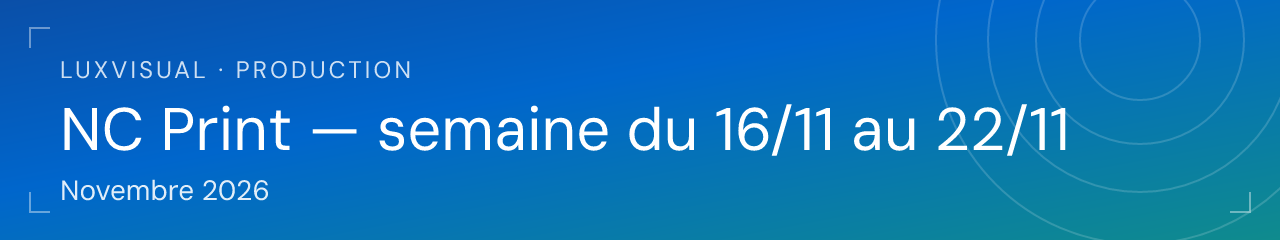
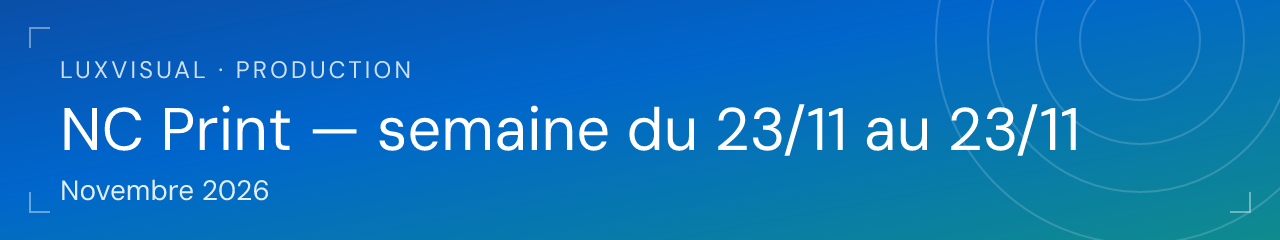
Rapport à la demande NC Print [skip ci]

Changed region(s): [[0.5625, 0.4375, 0.8438, 0.6417]]

diff --git a/report/rapport.html b/report/rapport.html
@@ -1,1 +1,1 @@
-<!DOCTYPE html><html lang="fr"><head><meta charset="utf-8"><meta name="viewport" content="width=device-width,initial-scale=1"></head><body style="margin:0;background:#f6f7f9;font-family:Arial,Helvetica,sans-serif"><table role="presentation" width="100%" cellpadding="0" cellspacing="0" bgcolor="#f6f7f9"><tr><td align="center" style="padding:16px 8px"><table role="presentation" width="640" cellpadding="0" cellspacing="0" bgcolor="#ffffff" style="max-width:640px;width:100%;border:1px solid #e3e6eb"><tr><td bgcolor="#0066cc" style="background:#0066cc;font-size:0;line-height:0"><img src="https://raw.githubusercontent.com/jeansonpaul-ops/NC-PRINT/main/report/banner.png?v=1795377986214" width="640" alt="NC Print — semaine du 16/11 au 22/11" style="display:block;width:100%;height:auto;border:0"></td></tr><tr><td style="padding:24px"><table role="presentation" cellpadding="0" cellspacing="0"><tr><td style="padding:0 28px 0 0"><div style="font-size:30px;font-weight:bold;color:#0066cc">23</div><div style="font-size:12px;color:#5f6877">NC cette semaine</div></td><td style="padding:0 28px 0 0"><div style="font-size:30px;font-weight:bold;color:#0f8b8d">7 h 12</div><div style="font-size:12px;color:#5f6877">temps perdu</div></td><td style="padding:0 28px 0 0"><div style="font-size:30px;font-weight:bold;color:#1e9e6a">19 min</div><div style="font-size:12px;color:#5f6877">par NC</div></td></tr></table><p style="font-size:16px;font-weight:bold;color:#14181f;margin:28px 0 8px">Non-conformités de la semaine</p><table width="100%" cellpadding="0" cellspacing="0" style="border-collapse:collapse;border:1px solid #e3e6eb"><tr><th style="padding:8px;text-align:left;font-size:12px;color:#5f6877;background:#f1f3f6;border-bottom:1px solid #e3e6eb">Date</th><th style="padding:8px;text-align:left;font-size:12px;color:#5f6877;background:#f1f3f6;border-bottom:1px solid #e3e6eb">Client / job</th><th style="padding:8px;text-align:left;font-size:12px;color:#5f6877;background:#f1f3f6;border-bottom:1px solid #e3e6eb">Graphiste</th><th style="padding:8px;text-align:left;font-size:12px;color:#5f6877;background:#f1f3f6;border-bottom:1px solid #e3e6eb">Type(s)</th><th style="padding:8px;text-align:left;font-size:12px;color:#5f6877;background:#f1f3f6;border-bottom:1px solid #e3e6eb;text-align:right">Temps</th></tr><tr><td style="padding:6px 8px;font-size:12px;color:#14181f;border-bottom:1px solid #e3e6eb;vertical-align:top;white-space:nowrap">17/11</td><td style="padding:6px 8px;font-size:12px;color:#14181f;border-bottom:1px solid #e3e6eb;vertical-align:top">surtout event &amp; co<br><span style="color:#5f6877;font-size:12px">2625041</span></td><td style="padding:6px 8px;font-size:12px;color:#14181f;border-bottom:1px solid #e3e6eb;vertical-align:top">Christopher</td><td style="padding:6px 8px;font-size:12px;color:#14181f;border-bottom:1px solid #e3e6eb;vertical-align:top">Fond perdu insuffisant</td><td style="padding:6px 8px;font-size:12px;color:#14181f;border-bottom:1px solid #e3e6eb;vertical-align:top;white-space:nowrap;text-align:right"><b>15</b> min</td></tr><tr><td style="padding:6px 8px;font-size:12px;color:#14181f;border-bottom:1px solid #e3e6eb;vertical-align:top;white-space:nowrap">17/11</td><td style="padding:6px 8px;font-size:12px;color:#14181f;border-bottom:1px solid #e3e6eb;vertical-align:top">LuxExpo<br><span style="color:#5f6877;font-size:12px">2624882</span></td><td style="padding:6px 8px;font-size:12px;color:#14181f;border-bottom:1px solid #e3e6eb;vertical-align:top">Invité (Graphiste)</td><td style="padding:6px 8px;font-size:12px;color:#14181f;border-bottom:1px solid #e3e6eb;vertical-align:top">Dimensions incorrectes</td><td style="padding:6px 8px;font-size:12px;color:#14181f;border-bottom:1px solid #e3e6eb;vertical-align:top;white-space:nowrap;text-align:right"><b>60</b> min</td></tr><tr><td style="padding:6px 8px;font-size:12px;color:#14181f;border-bottom:1px solid #e3e6eb;vertical-align:top;white-space:nowrap">17/11</td><td style="padding:6px 8px;font-size:12px;color:#14181f;border-bottom:1px solid #e3e6eb;vertical-align:top">ACL AUTOMOBILE<br><span style="color:#5f6877;font-size:12px">2625001</span></td><td style="padding:6px 8px;font-size:12px;color:#14181f;border-bottom:1px solid #e3e6eb;vertical-align:top">Invité (Graphiste)</td><td style="padding:6px 8px;font-size:12px;color:#14181f;border-bottom:1px solid #e3e6eb;vertical-align:top">Dimensions incorrectes</td><td style="padding:6px 8px;font-size:12px;color:#14181f;border-bottom:1px solid #e3e6eb;vertical-align:top;white-space:nowrap;text-align:right"><b>5</b> min</td></tr><tr><td style="padding:6px 8px;font-size:12px;color:#14181f;border-bottom:1px solid #e3e6eb;vertical-align:top;white-space:nowrap">17/11</td><td style="padding:6px 8px;font-size:12px;color:#14181f;border-bottom:1px solid #e3e6eb;vertical-align:top">GO CONCEPT<br><span style="color:#5f6877;font-size:12px">2624955</span></td><td style="padding:6px 8px;font-size:12px;color:#14181f;border-bottom:1px solid #e3e6eb;vertical-align:top">Manon</td><td style="padding:6px 8px;font-size:12px;color:#14181f;border-bottom:1px solid #e3e6eb;vertical-align:top">Autre</td><td style="padding:6px 8px;font-size:12px;color:#14181f;border-bottom:1px solid #e3e6eb;vertical-align:top;white-space:nowrap;text-align:right"><b>15</b> min</td></tr><tr><td style="padding:6px 8px;font-size:12px;color:#14181f;border-bottom:1px solid #e3e6eb;vertical-align:top;white-space:nowrap">17/11</td><td style="padding:6px 8px;font-size:12px;color:#14181f;border-bottom:1px solid #e3e6eb;vertical-align:top">GARAGE LOSCH<br><span style="color:#5f6877;font-size:12px">2624615</span></td><td style="padding:6px 8px;font-size:12px;color:#14181f;border-bottom:1px solid #e3e6eb;vertical-align:top">Manon</td><td style="padding:6px 8px;font-size:12px;color:#14181f;border-bottom:1px solid #e3e6eb;vertical-align:top">Dimensions incorrectes</td><td style="padding:6px 8px;font-size:12px;color:#14181f;border-bottom:1px solid #e3e6eb;vertical-align:top;white-space:nowrap;text-align:right"><b>15</b> min</td></tr><tr><td style="padding:6px 8px;font-size:12px;color:#14181f;border-bottom:1px solid #e3e6eb;vertical-align:top;white-space:nowrap">17/11</td><td style="padding:6px 8px;font-size:12px;color:#14181f;border-bottom:1px solid #e3e6eb;vertical-align:top">SOCIETE DE L'AEROPORT<br><span style="color:#5f6877;font-size:12px">2624934</span></td><td style="padding:6px 8px;font-size:12px;color:#14181f;border-bottom:1px solid #e3e6eb;vertical-align:top">Invité (Graphiste)</td><td style="padding:6px 8px;font-size:12px;color:#14181f;border-bottom:1px solid #e3e6eb;vertical-align:top">Autre: Incohérence BAT</td><td style="padding:6px 8px;font-size:12px;color:#14181f;border-bottom:1px solid #e3e6eb;vertical-align:top;white-space:nowrap;text-align:right"><b>15</b> min</td></tr><tr><td style="padding:6px 8px;font-size:12px;color:#14181f;border-bottom:1px solid #e3e6eb;vertical-align:top;white-space:nowrap">17/11</td><td style="padding:6px 8px;font-size:12px;color:#14181f;border-bottom:1px solid #e3e6eb;vertical-align:top">DUSSMAN<br><span style="color:#5f6877;font-size:12px">2624971</span></td><td style="padding:6px 8px;font-size:12px;color:#14181f;border-bottom:1px solid #e3e6eb;vertical-align:top">Invité (Graphiste)</td><td style="padding:6px 8px;font-size:12px;color:#14181f;border-bottom:1px solid #e3e6eb;vertical-align:top">Autre: Manque coin arrondi</td><td style="padding:6px 8px;font-size:12px;color:#14181f;border-bottom:1px solid #e3e6eb;vertical-align:top;white-space:nowrap;text-align:right"><b>15</b> min</td></tr><tr><td style="padding:6px 8px;font-size:12px;color:#14181f;border-bottom:1px solid #e3e6eb;vertical-align:top;white-space:nowrap">18/11</td><td style="padding:6px 8px;font-size:12px;color:#14181f;border-bottom:1px solid #e3e6eb;vertical-align:top">ACCENT AIGU<br><span style="color:#5f6877;font-size:12px">2624708</span></td><td style="padding:6px 8px;font-size:12px;color:#14181f;border-bottom:1px solid #e3e6eb;vertical-align:top">Manon</td><td style="padding:6px 8px;font-size:12px;color:#14181f;border-bottom:1px solid #e3e6eb;vertical-align:top">Autre: Manque visuel</td><td style="padding:6px 8px;font-size:12px;color:#14181f;border-bottom:1px solid #e3e6eb;vertical-align:top;white-space:nowrap;text-align:right"><b>120</b> min</td></tr><tr><td style="padding:6px 8px;font-size:12px;color:#14181f;border-bottom:1px solid #e3e6eb;vertical-align:top;white-space:nowrap">19/11</td><td style="padding:6px 8px;font-size:12px;color:#14181f;border-bottom:1px solid #e3e6eb;vertical-align:top">ANARODO<br><span style="color:#5f6877;font-size:12px">2624568</span></td><td style="padding:6px 8px;font-size:12px;color:#14181f;border-bottom:1px solid #e3e6eb;vertical-align:top">Manon</td><td style="padding:6px 8px;font-size:12px;color:#14181f;border-bottom:1px solid #e3e6eb;vertical-align:top">Autre: Visuel pas centré + Contour de découpe absent / non standard</td><td style="padding:6px 8px;font-size:12px;color:#14181f;border-bottom:1px solid #e3e6eb;vertical-align:top;white-space:nowrap;text-align:right"><b>20</b> min</td></tr><tr><td style="padding:6px 8px;font-size:12px;color:#14181f;border-bottom:1px solid #e3e6eb;vertical-align:top;white-space:nowrap">19/11</td><td style="padding:6px 8px;font-size:12px;color:#14181f;border-bottom:1px solid #e3e6eb;vertical-align:top">LUXEXPO<br><span style="color:#5f6877;font-size:12px">2624928</span></td><td style="padding:6px 8px;font-size:12px;color:#14181f;border-bottom:1px solid #e3e6eb;vertical-align:top">Invité (Graphiste)</td><td style="padding:6px 8px;font-size:12px;color:#14181f;border-bottom:1px solid #e3e6eb;vertical-align:top">Traits de coupe absents / mal positionnés</td><td style="padding:6px 8px;font-size:12px;color:#14181f;border-bottom:1px solid #e3e6eb;vertical-align:top;white-space:nowrap;text-align:right"><b>20</b> min</td></tr><tr><td style="padding:6px 8px;font-size:12px;color:#14181f;border-bottom:1px solid #e3e6eb;vertical-align:top;white-space:nowrap">19/11</td><td style="padding:6px 8px;font-size:12px;color:#14181f;border-bottom:1px solid #e3e6eb;vertical-align:top">LUX EXPO<br><span style="color:#5f6877;font-size:12px">2625016</span></td><td style="padding:6px 8px;font-size:12px;color:#14181f;border-bottom:1px solid #e3e6eb;vertical-align:top">Invité (Graphiste)</td><td style="padding:6px 8px;font-size:12px;color:#14181f;border-bottom:1px solid #e3e6eb;vertical-align:top">Fond perdu insuffisant</td><td style="padding:6px 8px;font-size:12px;color:#14181f;border-bottom:1px solid #e3e6eb;vertical-align:top;white-space:nowrap;text-align:right"><b>15</b> min</td></tr><tr><td style="padding:6px 8px;font-size:12px;color:#14181f;border-bottom:1px solid #e3e6eb;vertical-align:top;white-space:nowrap">19/11</td><td style="padding:6px 8px;font-size:12px;color:#14181f;border-bottom:1px solid #e3e6eb;vertical-align:top">APEX<br><span style="color:#5f6877;font-size:12px">2624735</span></td><td style="padding:6px 8px;font-size:12px;color:#14181f;border-bottom:1px solid #e3e6eb;vertical-align:top">Invité (Graphiste)</td><td style="padding:6px 8px;font-size:12px;color:#14181f;border-bottom:1px solid #e3e6eb;vertical-align:top">Fond perdu insuffisant</td><td style="padding:6px 8px;font-size:12px;color:#14181f;border-bottom:1px solid #e3e6eb;vertical-align:top;white-space:nowrap;text-align:right"><b>15</b> min</td></tr><tr><td style="padding:6px 8px;font-size:12px;color:#14181f;border-bottom:1px solid #e3e6eb;vertical-align:top;white-space:nowrap">19/11</td><td style="padding:6px 8px;font-size:12px;color:#14181f;border-bottom:1px solid #e3e6eb;vertical-align:top">MATE<br><span style="color:#5f6877;font-size:12px">2624889</span></td><td style="padding:6px 8px;font-size:12px;color:#14181f;border-bottom:1px solid #e3e6eb;vertical-align:top">Invité (Graphiste)</td><td style="padding:6px 8px;font-size:12px;color:#14181f;border-bottom:1px solid #e3e6eb;vertical-align:top">Mauvais format (JPG/PDF)</td><td style="padding:6px 8px;font-size:12px;color:#14181f;border-bottom:1px solid #e3e6eb;vertical-align:top;white-space:nowrap;text-align:right"><b>15</b> min</td></tr><tr><td style="padding:6px 8px;font-size:12px;color:#14181f;border-bottom:1px solid #e3e6eb;vertical-align:top;white-space:nowrap">19/11</td><td style="padding:6px 8px;font-size:12px;color:#14181f;border-bottom:1px solid #e3e6eb;vertical-align:top">ART AND WISE<br><span style="color:#5f6877;font-size:12px">2624620</span></td><td style="padding:6px 8px;font-size:12px;color:#14181f;border-bottom:1px solid #e3e6eb;vertical-align:top">Félix</td><td style="padding:6px 8px;font-size:12px;color:#14181f;border-bottom:1px solid #e3e6eb;vertical-align:top">Traits de coupe absents / mal positionnés</td><td style="padding:6px 8px;font-size:12px;color:#14181f;border-bottom:1px solid #e3e6eb;vertical-align:top;white-space:nowrap;text-align:right"><b>15</b> min</td></tr><tr><td style="padding:6px 8px;font-size:12px;color:#14181f;border-bottom:1px solid #e3e6eb;vertical-align:top;white-space:nowrap">19/11</td><td style="padding:6px 8px;font-size:12px;color:#14181f;border-bottom:1px solid #e3e6eb;vertical-align:top">ZPB<br><span style="color:#5f6877;font-size:12px">2625014</span></td><td style="padding:6px 8px;font-size:12px;color:#14181f;border-bottom:1px solid #e3e6eb;vertical-align:top">Invité (Graphiste)</td><td style="padding:6px 8px;font-size:12px;color:#14181f;border-bottom:1px solid #e3e6eb;vertical-align:top">Fond perdu insuffisant</td><td style="padding:6px 8px;font-size:12px;color:#14181f;border-bottom:1px solid #e3e6eb;vertical-align:top;white-space:nowrap;text-align:right"><b>2</b> min</td></tr><tr><td style="padding:6px 8px;font-size:12px;color:#14181f;border-bottom:1px solid #e3e6eb;vertical-align:top;white-space:nowrap">19/11</td><td style="padding:6px 8px;font-size:12px;color:#14181f;border-bottom:1px solid #e3e6eb;vertical-align:top">UP FOUNDATION<br><span style="color:#5f6877;font-size:12px">2625039</span></td><td style="padding:6px 8px;font-size:12px;color:#14181f;border-bottom:1px solid #e3e6eb;vertical-align:top">Invité (Graphiste)</td><td style="padding:6px 8px;font-size:12px;color:#14181f;border-bottom:1px solid #e3e6eb;vertical-align:top">Fond perdu insuffisant</td><td style="padding:6px 8px;font-size:12px;color:#14181f;border-bottom:1px solid #e3e6eb;vertical-align:top;white-space:nowrap;text-align:right"><b>5</b> min</td></tr><tr><td style="padding:6px 8px;font-size:12px;color:#14181f;border-bottom:1px solid #e3e6eb;vertical-align:top;white-space:nowrap">19/11</td><td style="padding:6px 8px;font-size:12px;color:#14181f;border-bottom:1px solid #e3e6eb;vertical-align:top">PHILIP MORRIS<br><span style="color:#5f6877;font-size:12px">2624927</span></td><td style="padding:6px 8px;font-size:12px;color:#14181f;border-bottom:1px solid #e3e6eb;vertical-align:top">Manon</td><td style="padding:6px 8px;font-size:12px;color:#14181f;border-bottom:1px solid #e3e6eb;vertical-align:top">Fond perdu insuffisant</td><td style="padding:6px 8px;font-size:12px;color:#14181f;border-bottom:1px solid #e3e6eb;vertical-align:top;white-space:nowrap;text-align:right"><b>5</b> min</td></tr><tr><td style="padding:6px 8px;font-size:12px;color:#14181f;border-bottom:1px solid #e3e6eb;vertical-align:top;white-space:nowrap">19/11</td><td style="padding:6px 8px;font-size:12px;color:#14181f;border-bottom:1px solid #e3e6eb;vertical-align:top">LUCA<br><span style="color:#5f6877;font-size:12px">2624816</span></td><td style="padding:6px 8px;font-size:12px;color:#14181f;border-bottom:1px solid #e3e6eb;vertical-align:top">Félix</td><td style="padding:6px 8px;font-size:12px;color:#14181f;border-bottom:1px solid #e3e6eb;vertical-align:top">Blanc non défini</td><td style="padding:6px 8px;font-size:12px;color:#14181f;border-bottom:1px solid #e3e6eb;vertical-align:top;white-space:nowrap;text-align:right"><b>10</b> min</td></tr><tr><td style="padding:6px 8px;font-size:12px;color:#14181f;border-bottom:1px solid #e3e6eb;vertical-align:top;white-space:nowrap">19/11</td><td style="padding:6px 8px;font-size:12px;color:#14181f;border-bottom:1px solid #e3e6eb;vertical-align:top">GARAGE LOSCH<br><span style="color:#5f6877;font-size:12px">2624615</span></td><td style="padding:6px 8px;font-size:12px;color:#14181f;border-bottom:1px solid #e3e6eb;vertical-align:top">Manon</td><td style="padding:6px 8px;font-size:12px;color:#14181f;border-bottom:1px solid #e3e6eb;vertical-align:top">Autre: Plan de travail mal numéroté</td><td style="padding:6px 8px;font-size:12px;color:#14181f;border-bottom:1px solid #e3e6eb;vertical-align:top;white-space:nowrap;text-align:right"><b>20</b> min</td></tr><tr><td style="padding:6px 8px;font-size:12px;color:#14181f;border-bottom:1px solid #e3e6eb;vertical-align:top;white-space:nowrap">19/11</td><td style="padding:6px 8px;font-size:12px;color:#14181f;border-bottom:1px solid #e3e6eb;vertical-align:top">BOOM<br><span style="color:#5f6877;font-size:12px">2624936</span></td><td style="padding:6px 8px;font-size:12px;color:#14181f;border-bottom:1px solid #e3e6eb;vertical-align:top">Invité (Graphiste)</td><td style="padding:6px 8px;font-size:12px;color:#14181f;border-bottom:1px solid #e3e6eb;vertical-align:top">Fond perdu insuffisant</td><td style="padding:6px 8px;font-size:12px;color:#14181f;border-bottom:1px solid #e3e6eb;vertical-align:top;white-space:nowrap;text-align:right"><b>5</b> min</td></tr><tr><td style="padding:6px 8px;font-size:12px;color:#14181f;border-bottom:1px solid #e3e6eb;vertical-align:top;white-space:nowrap">19/11</td><td style="padding:6px 8px;font-size:12px;color:#14181f;border-bottom:1px solid #e3e6eb;vertical-align:top">ACL<br><span style="color:#5f6877;font-size:12px">2624700</span></td><td style="padding:6px 8px;font-size:12px;color:#14181f;border-bottom:1px solid #e3e6eb;vertical-align:top">Christopher</td><td style="padding:6px 8px;font-size:12px;color:#14181f;border-bottom:1px solid #e3e6eb;vertical-align:top">Traits de coupe absents / mal positionnés</td><td style="padding:6px 8px;font-size:12px;color:#14181f;border-bottom:1px solid #e3e6eb;vertical-align:top;white-space:nowrap;text-align:right"><b>5</b> min</td></tr><tr><td style="padding:6px 8px;font-size:12px;color:#14181f;border-bottom:1px solid #e3e6eb;vertical-align:top;white-space:nowrap">19/11</td><td style="padding:6px 8px;font-size:12px;color:#14181f;border-bottom:1px solid #e3e6eb;vertical-align:top">ADMIN. COMMUN. DIEKIRCH<br><span style="color:#5f6877;font-size:12px">2625140</span></td><td style="padding:6px 8px;font-size:12px;color:#14181f;border-bottom:1px solid #e3e6eb;vertical-align:top">Christopher</td><td style="padding:6px 8px;font-size:12px;color:#14181f;border-bottom:1px solid #e3e6eb;vertical-align:top">Blanc non défini</td><td style="padding:6px 8px;font-size:12px;color:#14181f;border-bottom:1px solid #e3e6eb;vertical-align:top;white-space:nowrap;text-align:right"><b>5</b> min</td></tr><tr><td style="padding:6px 8px;font-size:12px;color:#14181f;border-bottom:1px solid #e3e6eb;vertical-align:top;white-space:nowrap">20/11</td><td style="padding:6px 8px;font-size:12px;color:#14181f;border-bottom:1px solid #e3e6eb;vertical-align:top">ACCENT AIGU<br><span style="color:#5f6877;font-size:12px">2624801</span></td><td style="padding:6px 8px;font-size:12px;color:#14181f;border-bottom:1px solid #e3e6eb;vertical-align:top">Christopher</td><td style="padding:6px 8px;font-size:12px;color:#14181f;border-bottom:1px solid #e3e6eb;vertical-align:top">Autre: Plan de travail trop grand</td><td style="padding:6px 8px;font-size:12px;color:#14181f;border-bottom:1px solid #e3e6eb;vertical-align:top;white-space:nowrap;text-align:right"><b>15</b> min</td></tr></table><table role="presentation" width="100%" cellpadding="0" cellspacing="0" style="margin-top:32px;border-top:3px solid #0f8b8d"><tr><td style="padding-top:16px;font-size:20px;font-weight:bold;color:#0f8b8d">Cumul de novembre : 26 NC · 7 h 57</td></tr></table><p style="font-size:16px;font-weight:bold;color:#14181f;margin:28px 0 8px">Répartition par type de NC</p><img src="https://raw.githubusercontent.com/jeansonpaul-ops/NC-PRINT/main/report/types.png?v=1795377986214" width="592" alt="NC par type" style="display:block;width:100%;max-width:592px;height:auto;border:0"><p style="font-size:16px;font-weight:bold;color:#14181f;margin:28px 0 8px">NC par graphiste</p><img src="https://raw.githubusercontent.com/jeansonpaul-ops/NC-PRINT/main/report/graphistes.png?v=1795377986214" width="592" alt="NC par graphiste" style="display:block;width:100%;max-width:592px;height:auto;border:0"><p style="font-size:16px;font-weight:bold;color:#14181f;margin:28px 0 8px">Temps perdu par graphiste</p><img src="https://raw.githubusercontent.com/jeansonpaul-ops/NC-PRINT/main/report/temps.png?v=1795377986214" width="592" alt="Temps perdu par graphiste" style="display:block;width:100%;max-width:592px;height:auto;border:0"><p style="font-size:16px;font-weight:bold;color:#14181f;margin:28px 0 8px">Évolution sur 6 mois (nombre de NC et temps perdu)</p><img src="https://raw.githubusercontent.com/jeansonpaul-ops/NC-PRINT/main/report/mois.png?v=1795377986214" width="592" alt="NC par mois" style="display:block;width:100%;max-width:592px;height:auto;border:0"><p style="font-size:12px;color:#5f6877;margin:28px 0 0">Rapport généré automatiquement par NC Print. Si les graphiques ne s'affichent pas, autorisez l'affichage des images.</p></td></tr></table></td></tr></table></body></html>
+<!DOCTYPE html><html lang="fr"><head><meta charset="utf-8"><meta name="viewport" content="width=device-width,initial-scale=1"></head><body style="margin:0;background:#f6f7f9;font-family:Arial,Helvetica,sans-serif"><table role="presentation" width="100%" cellpadding="0" cellspacing="0" bgcolor="#f6f7f9"><tr><td align="center" style="padding:16px 8px"><table role="presentation" width="640" cellpadding="0" cellspacing="0" bgcolor="#ffffff" style="max-width:640px;width:100%;border:1px solid #e3e6eb"><tr><td bgcolor="#0066cc" style="background:#0066cc;font-size:0;line-height:0"><img src="https://raw.githubusercontent.com/jeansonpaul-ops/NC-PRINT/main/report/banner.png?v=1795395016214" width="640" alt="NC Print — semaine du 23/11 au 23/11" style="display:block;width:100%;height:auto;border:0"></td></tr><tr><td style="padding:24px"><table role="presentation" cellpadding="0" cellspacing="0"><tr><td style="padding:0 28px 0 0"><div style="font-size:30px;font-weight:bold;color:#0066cc">0</div><div style="font-size:12px;color:#5f6877">NC cette semaine</div></td><td style="padding:0 28px 0 0"><div style="font-size:30px;font-weight:bold;color:#0f8b8d">0 min</div><div style="font-size:12px;color:#5f6877">temps perdu</div></td><td style="padding:0 28px 0 0"><div style="font-size:30px;font-weight:bold;color:#1e9e6a">—</div><div style="font-size:12px;color:#5f6877">par NC</div></td></tr></table><p style="font-size:16px;font-weight:bold;color:#14181f;margin:28px 0 8px">Non-conformités de la semaine</p><table width="100%" cellpadding="0" cellspacing="0" style="border-collapse:collapse;border:1px solid #e3e6eb"><tr><th style="padding:8px;text-align:left;font-size:12px;color:#5f6877;background:#f1f3f6;border-bottom:1px solid #e3e6eb">Date</th><th style="padding:8px;text-align:left;font-size:12px;color:#5f6877;background:#f1f3f6;border-bottom:1px solid #e3e6eb">Client / job</th><th style="padding:8px;text-align:left;font-size:12px;color:#5f6877;background:#f1f3f6;border-bottom:1px solid #e3e6eb">Graphiste</th><th style="padding:8px;text-align:left;font-size:12px;color:#5f6877;background:#f1f3f6;border-bottom:1px solid #e3e6eb">Type(s)</th><th style="padding:8px;text-align:left;font-size:12px;color:#5f6877;background:#f1f3f6;border-bottom:1px solid #e3e6eb;text-align:right">Temps</th></tr><tr><td colspan="5" style="padding:6px 8px;font-size:12px;color:#14181f;border-bottom:1px solid #e3e6eb;vertical-align:top;color:#5f6877">Aucune non-conformité cette semaine.</td></tr></table><table role="presentation" width="100%" cellpadding="0" cellspacing="0" style="margin-top:32px;border-top:3px solid #0f8b8d"><tr><td style="padding-top:16px;font-size:20px;font-weight:bold;color:#0f8b8d">Cumul de novembre : 26 NC · 7 h 57</td></tr></table><p style="font-size:16px;font-weight:bold;color:#14181f;margin:28px 0 8px">Répartition par type de NC</p><img src="https://raw.githubusercontent.com/jeansonpaul-ops/NC-PRINT/main/report/types.png?v=1795395016214" width="592" alt="NC par type" style="display:block;width:100%;max-width:592px;height:auto;border:0"><p style="font-size:16px;font-weight:bold;color:#14181f;margin:28px 0 8px">NC par graphiste</p><img src="https://raw.githubusercontent.com/jeansonpaul-ops/NC-PRINT/main/report/graphistes.png?v=1795395016214" width="592" alt="NC par graphiste" style="display:block;width:100%;max-width:592px;height:auto;border:0"><p style="font-size:16px;font-weight:bold;color:#14181f;margin:28px 0 8px">Temps perdu par graphiste</p><img src="https://raw.githubusercontent.com/jeansonpaul-ops/NC-PRINT/main/report/temps.png?v=1795395016214" width="592" alt="Temps perdu par graphiste" style="display:block;width:100%;max-width:592px;height:auto;border:0"><p style="font-size:16px;font-weight:bold;color:#14181f;margin:28px 0 8px">Évolution sur 6 mois (nombre de NC et temps perdu)</p><img src="https://raw.githubusercontent.com/jeansonpaul-ops/NC-PRINT/main/report/mois.png?v=1795395016214" width="592" alt="NC par mois" style="display:block;width:100%;max-width:592px;height:auto;border:0"><p style="font-size:12px;color:#5f6877;margin:28px 0 0">Rapport généré automatiquement par NC Print. Si les graphiques ne s'affichent pas, autorisez l'affichage des images.</p></td></tr></table></td></tr></table></body></html>
